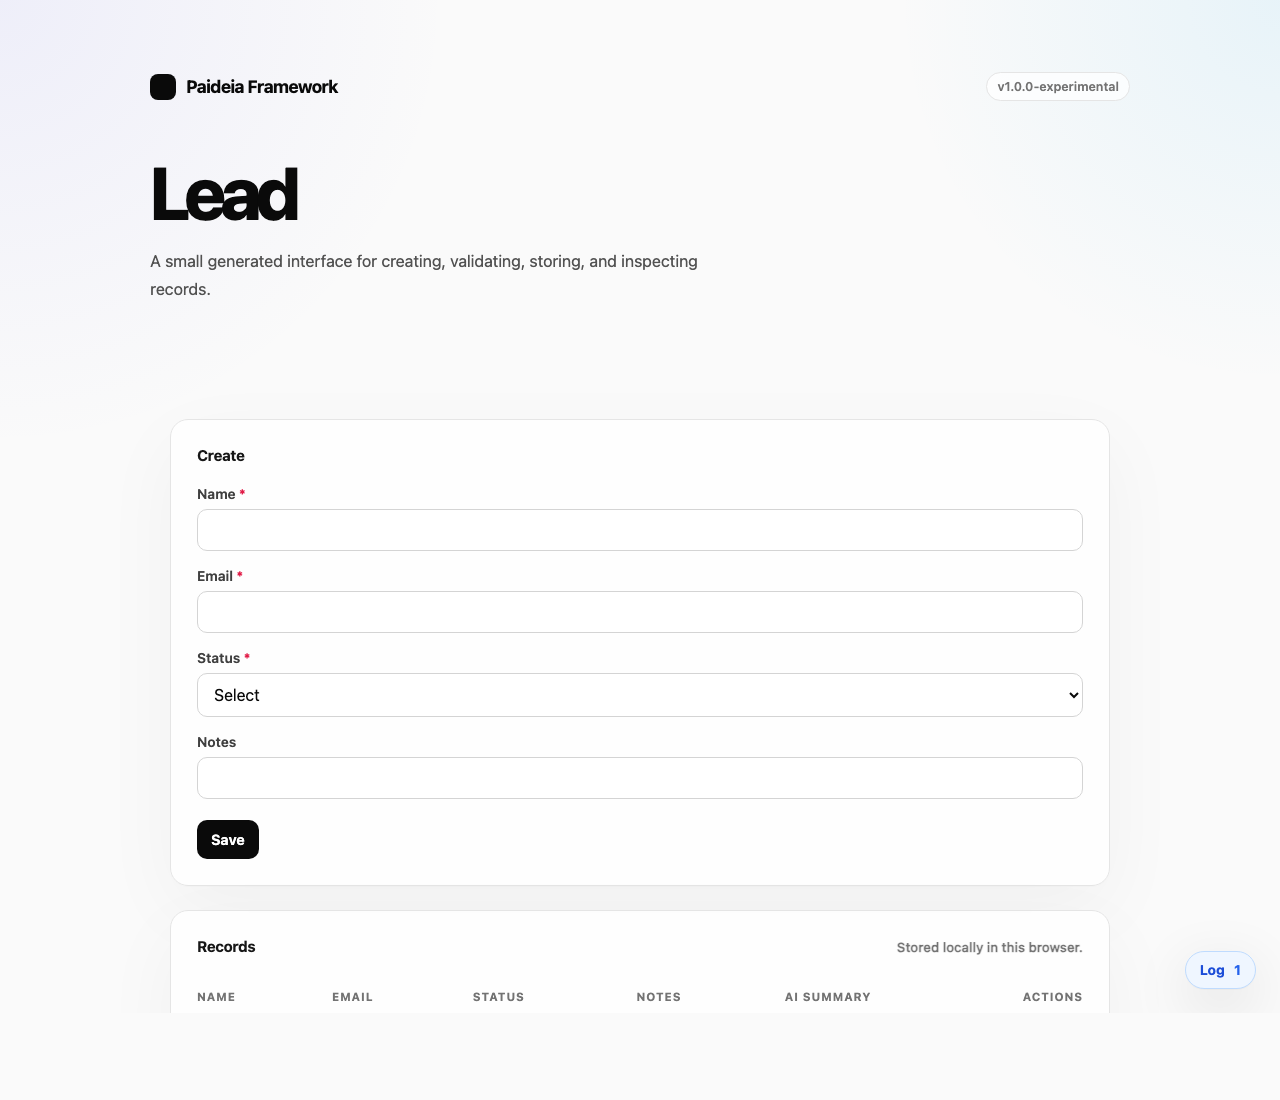
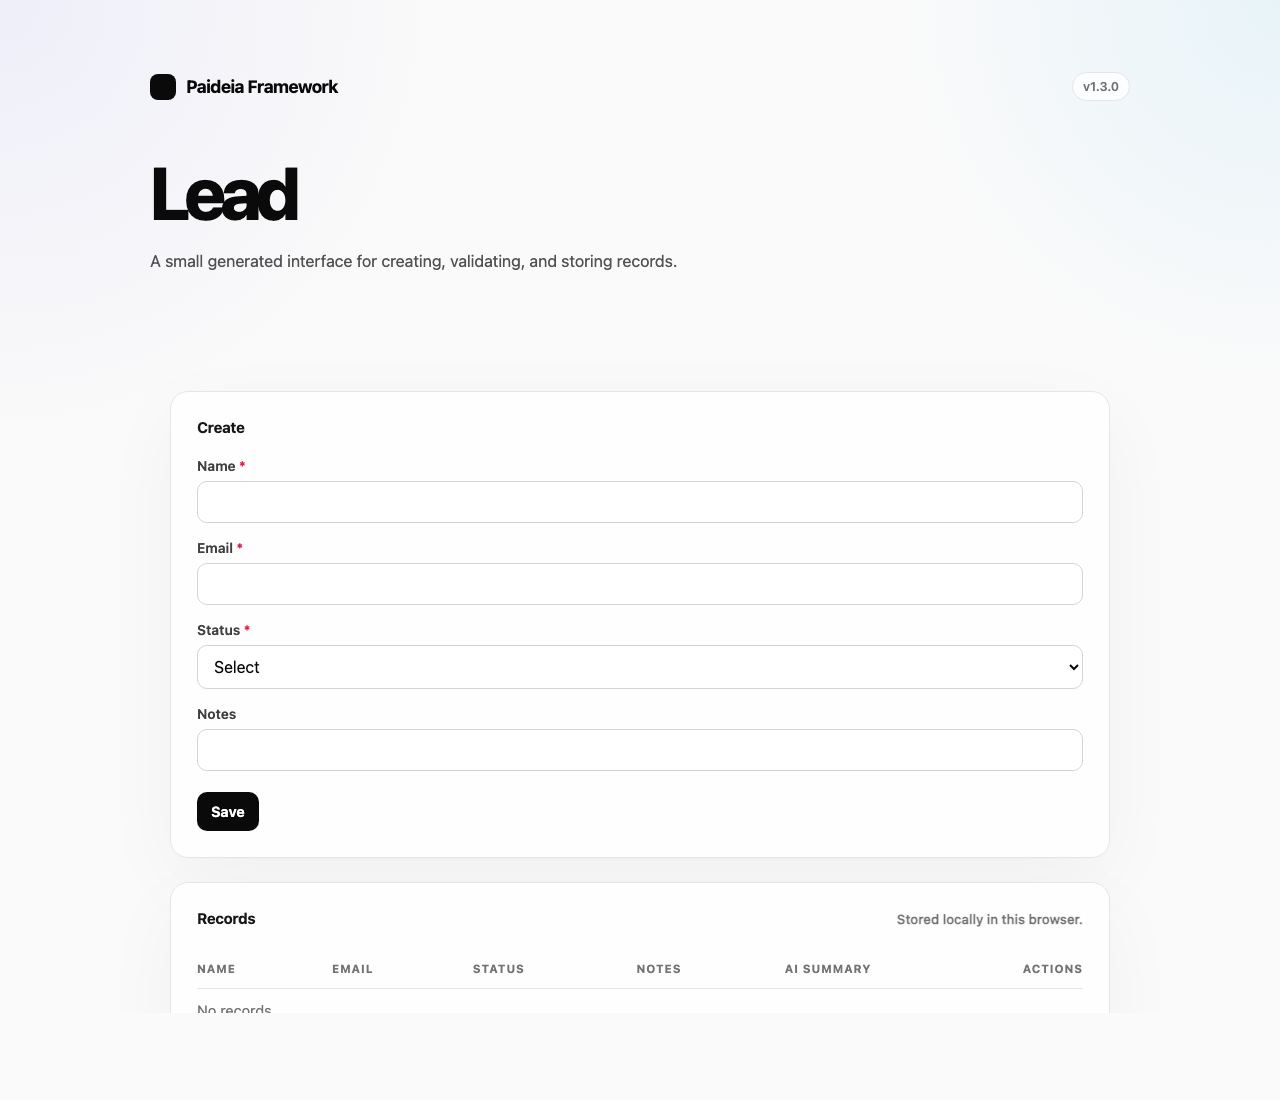
Refresh v1.3.0 docs and screenshots

diff --git a/examples/lead-system/README.md b/examples/lead-system/README.md
@@ -2,7 +2,7 @@
 
 This is the first Paideia demo scenario: a small lead intake system whose generated runtime remains inspectable.
 
-The resource declaration in `src/index.ts` defines:
+The reusable example declaration lives in `examples/lead-system/resource.ts`. It matches the Lead demo generated by the repo build and defines:
 
 - fields: name, email, status, notes
 - local browser persistence
